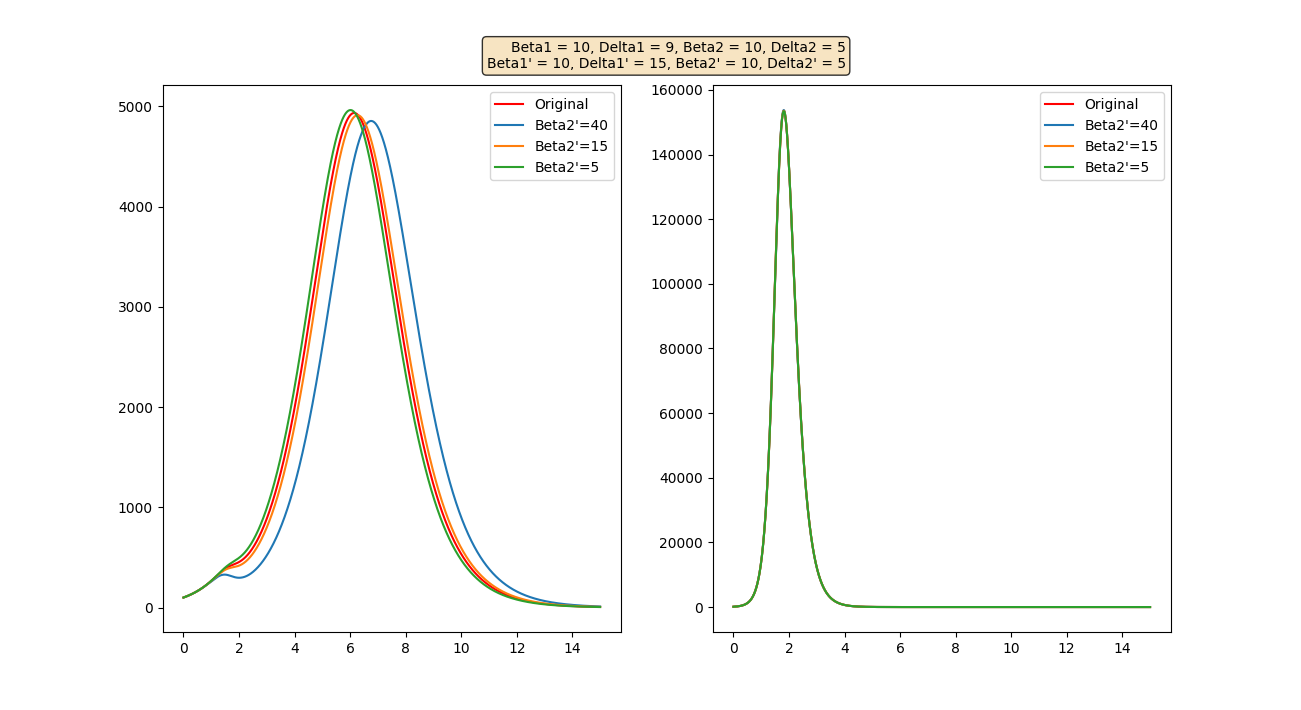
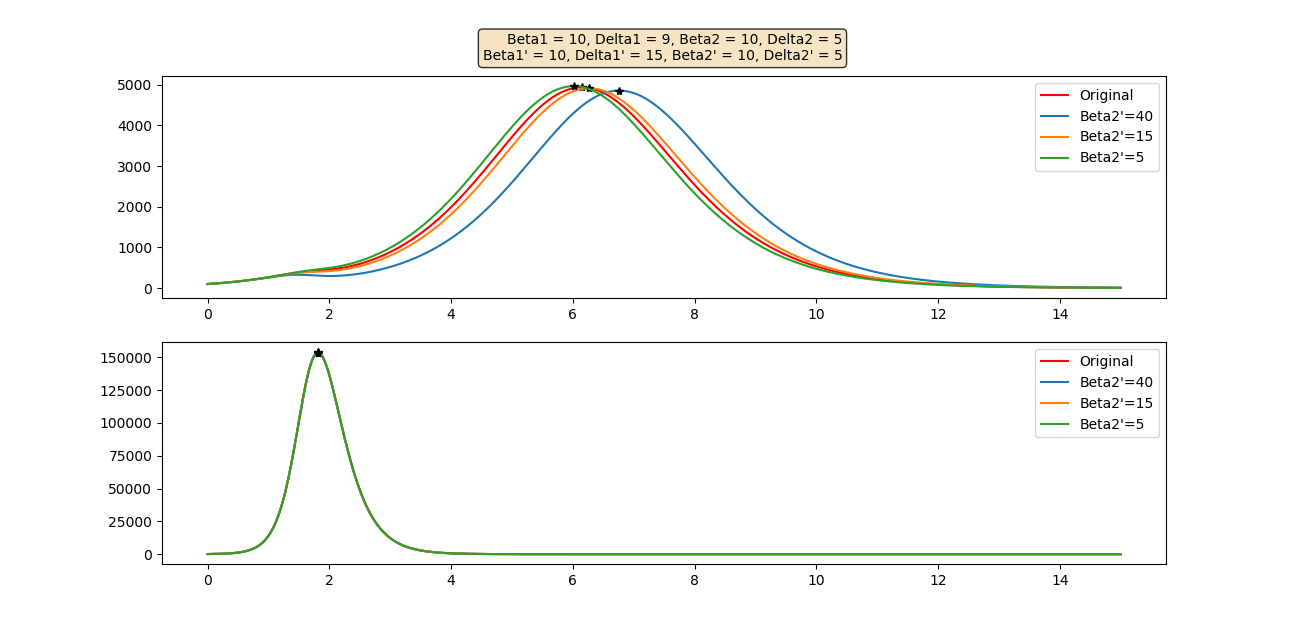
New images

diff --git a/analysis.py b/analysis.py
@@ -174,7 +174,7 @@ class modelAnalysis:
             elif fixed == 2:
                 betaprime_arr = np.array([self.params[4]])
 
-        fig, ax = plt.subplots(1, 2)
+        fig, ax = plt.subplots(2, 1)
         siir = mdl.SIIR(self.SIIR0, self.params, self.t_sim)
         siir.runEvaluation()
         ax[0].plot(self.t_sim, siir.getDisease1()[0], '-r', label='Original')
@@ -263,9 +263,9 @@ def getAnalysis():
 
     siirSim_orig = modelAnalysis(SIIR0, params, t_sim)
 
-    #siirSim_orig.plotChange(betaprime_arr=np.array([5, 15, 40]), fixed=1, peak=True)
-    #siirSim_orig.plotChange(betaprime_arr=np.array([5, 15, 40]), fixed=2, peak=True)
-    siirSim_orig.plotPeak2D(beta1prime_arr=np.arange(0, 40, 2), beta2prime_arr=np.arange(0, 40, 2), savefig=False)
-    siirSim_orig.plotInfected2D(beta1prime_arr=np.arange(0, 40, 2), beta2prime_arr=np.arange(0, 40, 2), savefig=False)
+    siirSim_orig.plotChange(betaprime_arr=np.array([5, 15, 40]), fixed=1, peak=True)
+    siirSim_orig.plotChange(betaprime_arr=np.array([5, 15, 40]), fixed=2, peak=True)
+    #siirSim_orig.plotPeak2D(beta1prime_arr=np.arange(0, 40, 2), beta2prime_arr=np.arange(0, 40, 2), savefig=False)
+    #siirSim_orig.plotInfected2D(beta1prime_arr=np.arange(0, 40, 2), beta2prime_arr=np.arange(0, 40, 2), savefig=False)
 
 getAnalysis()
